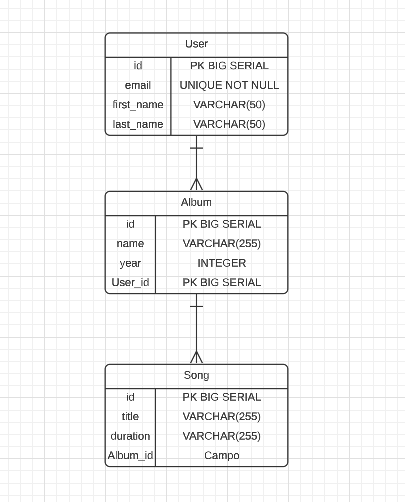
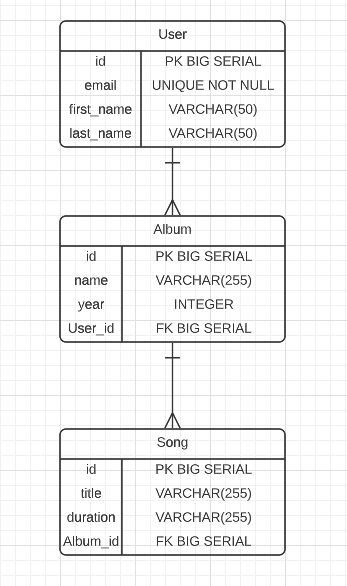
Fix: docs route and DER diagram

diff --git a/bandkamp/urls.py b/bandkamp/urls.py
@@ -26,9 +26,5 @@ urlpatterns = [
     path("api/", include("users.urls")),
     path("api/", include("albums.urls")),
     # path("api/", include("songs.urls")),
-    # Acessa o download do schema
-    path('api/schema/', SpectacularAPIView.as_view(), name='schema'),
-    # Opcionais (escolha 1)
-    path('api/docs/swagger-ui/', SpectacularSwaggerView.as_view(url_name='schema'), name='swagger-ui'),
-    path('api/docs/redoc/', SpectacularRedocView.as_view(url_name='schema'), name='redoc')
+    path('api/docs/', SpectacularSwaggerView.as_view(url_name='schema'), name='swagger-ui'),
 ]

diff --git a/users/migrations/0003_alter_user_email.py b/users/migrations/0003_alter_user_email.py
@@ -1,0 +1,18 @@
+# Generated by Django 4.0.7 on 2023-03-02 04:16
+
+from django.db import migrations, models
+
+
+class Migration(migrations.Migration):
+
+    dependencies = [
+        ('users', '0002_alter_user_first_name_alter_user_last_name'),
+    ]
+
+    operations = [
+        migrations.AlterField(
+            model_name='user',
+            name='email',
+            field=models.EmailField(max_length=254, unique=True),
+        ),
+    ]
